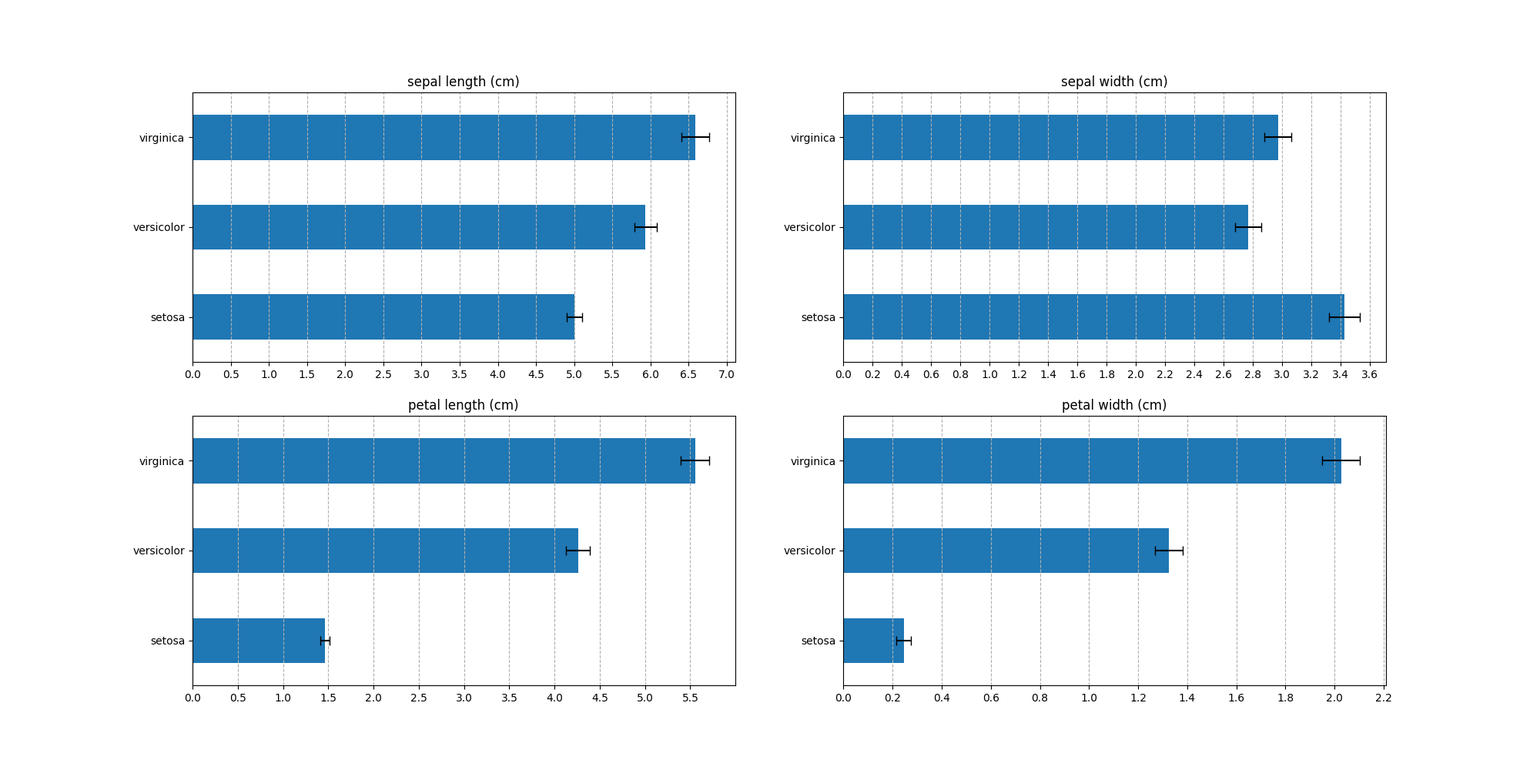
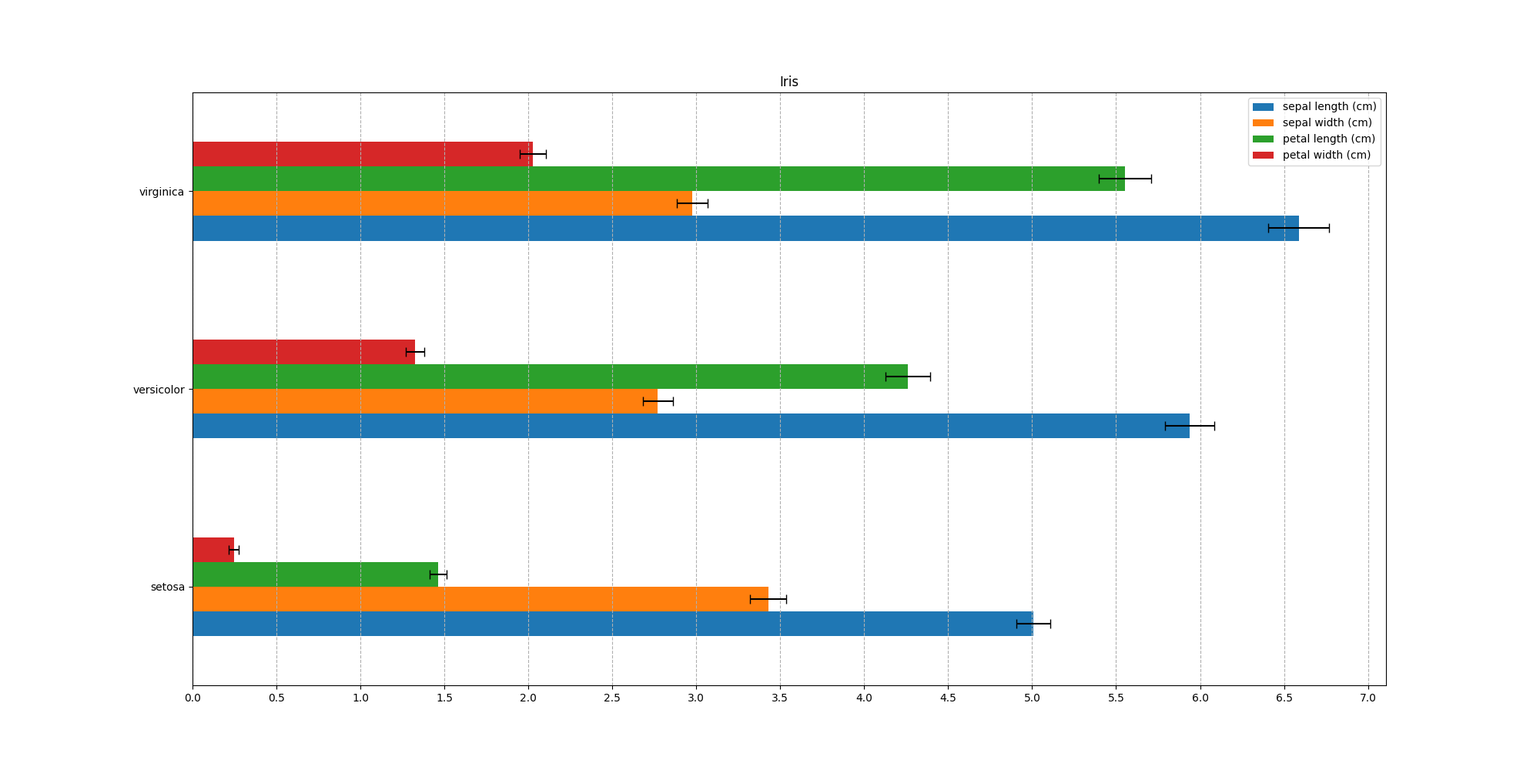
Multiple targets in GroupedScalarsBarchart

diff --git a/docs/searchindex.js b/docs/searchindex.js
@@ -1,1 +1,1 @@
-Search.setIndex({docnames:["data","groupedscalars","groupedseries","index","scalars","series","ungroupedscalars","ungroupedseries","utils"],envversion:{"sphinx.domains.c":2,"sphinx.domains.changeset":1,"sphinx.domains.citation":1,"sphinx.domains.cpp":3,"sphinx.domains.index":1,"sphinx.domains.javascript":2,"sphinx.domains.math":2,"sphinx.domains.python":2,"sphinx.domains.rst":2,"sphinx.domains.std":1,sphinx:56},filenames:["data.rst","groupedscalars.rst","groupedseries.rst","index.rst","scalars.rst","series.rst","ungroupedscalars.rst","ungroupedseries.rst","utils.rst"],objects:{"plotszoo.data":{DataCollection:[0,0,1,""],OptunaData:[0,0,1,""],WandbData:[0,0,1,""]},"plotszoo.data.DataCollection":{align_series:[0,1,1,""],are_series_aligned:[0,1,1,""],astype:[0,1,1,""],create_categorical:[0,1,1,""],create_scalar_from_series:[0,1,1,""],dropna:[0,1,1,""],dropna_series:[0,1,1,""],fillna:[0,1,1,""],fillna_series:[0,1,1,""],is_both:[0,1,1,""],is_empty:[0,1,1,""],is_scalars:[0,1,1,""],is_series:[0,1,1,""],rolling_series:[0,1,1,""],set_scalars:[0,1,1,""],set_series:[0,1,1,""]},"plotszoo.data.OptunaData":{pull_scalars:[0,1,1,""]},"plotszoo.data.WandbData":{pull_scalars:[0,1,1,""],pull_series:[0,1,1,""]},"plotszoo.scalars":{ScalarsParallelCoordinates:[6,0,1,""],ScalarsScatterCumulative:[6,0,1,""]},"plotszoo.scalars.ScalarsParallelCoordinates":{plot:[6,1,1,""]},"plotszoo.scalars.ScalarsScatterCumulative":{plot:[6,1,1,""]},"plotszoo.scalars.grouped":{GroupedScalarsBarchart:[1,0,1,""]},"plotszoo.scalars.grouped.GroupedScalarsBarchart":{plot:[1,1,1,""]},"plotszoo.series":{SeriesParade:[7,0,1,""]},"plotszoo.series.SeriesParade":{plot:[7,1,1,""]},"plotszoo.series.grouped":{GroupedSeriesParade:[2,0,1,""]},"plotszoo.series.grouped.GroupedSeriesParade":{plot:[2,1,1,""]},"plotszoo.utils":{savefig:[8,3,1,""]},plotszoo:{utils:[8,2,0,"-"]}},objnames:{"0":["py","class","Python class"],"1":["py","method","Python method"],"2":["py","module","Python module"],"3":["py","function","Python function"]},objtypes:{"0":"py:class","1":"py:method","2":"py:module","3":"py:function"},terms:{"100":[2,7],"999":6,"class":[0,1,2,4,5,6,7],"default":[0,1,2,6,7,8],"float":0,"function":[0,1,3,6,7],"import":[1,2,6,7],"int":1,"new":0,"return":[0,1],"true":[0,1,6,8],The:[0,1,2,6,7,8],Use:[0,6],Useful:2,Will:0,__file__:[1,2,6,7],about:0,accord:0,actual:6,adjust_whitespac:6,adjust_withspac:6,after:[0,2],against:6,agg_fn:0,algin:0,align:[0,2],align_seri:0,all:[0,3,7],alpha:2,also:0,amax:6,api:0,append:[2,7],appli:0,are_series_align:0,area:2,arg:[0,1,2,6,7,8],argument:0,astyp:0,attribut:0,axes:[1,2,6,7],axi:1,barchart:1,base:0,befor:2,blue:6,both:[0,2],cach:0,cache_dir:0,call:[0,2,6,8],can:[3,4,5,6],cast:0,categor:[0,6],certain:2,chang:0,chart:6,check:0,choos:0,cmap:[2,6,7],cmap_fn:6,cointain:0,cointan:0,collect:0,color:[6,7],color_fn:7,colorbar:6,colormap:[2,6,7],colum:0,column:[0,1,2,6,7],common:0,comput:7,confid:[1,2],config:6,configur:6,contain:0,content:[3,4,5],convert:[0,1],coordin:6,correspond:0,cos:[0,2,7],creat:[0,6,8],create_categor:0,create_dir_tre:8,create_scalar_from_seri:0,cumul:6,cumulative_fn:6,data:[1,2,3,6,7],datacollect:[0,1,2,6,7],datafram:[0,1,2,6,7],dataset:[1,6],dict:[0,6],dictionari:6,directori:[0,8],dirnam:[1,2,6,7],disabl:0,discard:0,divid:[4,5],doe:8,drop:0,dropna:0,dropna_seri:0,each:[0,1,2,6],effect:6,element:6,empti:0,ent_coef:6,entiti:0,exampl:[0,1,2,6,7,8],exist:8,fals:[0,1,2,6],featur:1,feature_nam:[1,6],field:6,fig:[1,2,6,7,8],figur:8,filenam:8,fill:0,fillna:0,fillna_seri:0,filter:0,find:[3,4,5],finish:0,first:8,fixed_color:7,flatten:1,folder:8,forc:0,force_upd:0,from:[0,1,6,7],full:0,gamma:6,get:3,goal:2,goal_typ:2,grid:1,grope:[4,5],group:[3,4,5,6],groupedscalarsbarchart:1,groupedseriesparad:2,have:[0,6],here:[0,1,2,3,4,5,6,7,8],histori:0,imag:[1,2,6,7],index:[0,1,2,3,6,7],indic:[0,1,2],inform:3,input:0,instead:6,integ:6,interv:[1,2],iri:[1,6],is_both:0,is_empti:0,is_scalar:0,is_seri:0,join:[1,2,6,7],just:[4,5],kei:[0,6],keyword:0,kwarg:[0,8],label:6,lambda:[0,1,7],legend:2,len:[2,6,7],line:1,linear:6,linspac:[2,6,7],list:[0,1,2,6],load:3,load_iri:[1,6],loc:2,logarithm:6,longest:0,lower:2,make:6,matplotlib:[1,2,6,7,8],max:[2,6],max_clip_norm:6,maximum:6,mean:[0,1,2,6],mean_reward:0,method:0,min:[0,2],minimum:6,modul:3,mongodb:0,must:[0,6],name:0,nan:0,nbin:1,nearest:0,need:3,new_column:0,nice:8,noise_level:[2,7],noisy_co:[2,7],noisy_sin:[2,7],none:[0,1,2,6,7],norm:6,normalize_color:2,num_seri:[2,7],number:[1,6],numer:[0,6],numpi:[1,2,6,7],one:[0,7],ones:[4,5],optuna:0,optunadata:0,organ:0,page:3,panda:[0,1,2,6,7],parad:[2,7],parallel:6,parallel_plot:6,path:[1,2,6,7],pdf:6,plot:[3,8],plotszoo:[0,1,2,4,5,6,7,8],plt:[1,2,6,7,8],png:[1,2,6,7,8],point:6,ppf:6,prettier:6,probabl:0,process:2,project:0,provid:0,pull:0,pull_scalar:0,pull_seri:0,pyplot:[1,2,6,7],python:0,queri:0,rand:[2,7],random:[2,7],rang:[2,7],reach:2,realpath:[1,2,6,7],reindex:0,rel:6,requir:[2,6],reset:0,respect:6,result:0,retriv:0,reward:[0,6],right:2,rightmost:6,roll:0,rolling_seri:0,row:0,run:[0,6],same:[0,6],sampl:[2,7],save:8,savefig:[1,2,6,7,8],savefig_kwarg:8,scalar:[0,2,3,7],scalar_nam:0,scalarsparallelcoordin:6,scalarsscattercumul:6,scale:6,scan_histori:0,scatter:6,scatter_cumul:6,scatterplot:6,scipi:6,search:3,seed:[2,7],sequenc:6,sequenti:6,seri:[0,3],series_parad:[2,7],seriesparad:7,servic:0,set:[0,6],set_scalar:[0,1,2,6,7],set_seri:[0,2,7],set_size_inch:[1,6],share:0,sharei:6,shortest:0,show:[1,6],side:6,sin:[0,2,7],sklearn:[1,6],sobsitut:0,some:[1,2,4,5,6,7,8],sort:6,sqlite:0,start:3,start_tim:0,stat:6,state:0,stochast:2,stop:2,storag:0,store:0,strategi:0,studi:0,study_nam:0,subplot:[1,2,6,7],subplots_adjust:6,sum:6,summari:6,tab10:[2,6,7],tan:0,target:[1,2,6],target_entropi:6,target_nam:1,team:0,text:1,textual:0,thei:8,them:[4,5],thi:2,tick:[1,6],time:0,timestamp:0,titl:1,train_step:6,tree:8,two:0,type:[0,2,6,7],unalign:0,ungroup:[3,4,5],updat:0,use:[0,2,6,7],used:6,usernam:0,using:[0,2,6],util:3,valu:[0,2,6,7],verbos:0,vertic:1,vf_coef:6,wandb:0,wandbdata:0,welcom:3,well:1,when:2,where:0,which:0,window:0,without:[4,5],work:2,wspace:6,x_seq:6,xtick:6,xticks_fn:6,you:[3,4,5,6],yticks_fn:1,zip:1},titles:["Data loading","Plotting Grouped Scalars","Plotting Grouped Series","plotszoo\u2019s documentation","Plotting Scalars","Plotting Series","Plotting Ungrouped Scalars","Plotting Ungrouped Series","Utility Functions"],titleterms:{"function":8,data:0,document:3,group:[1,2],indic:3,load:0,plot:[1,2,4,5,6,7],plotszoo:3,scalar:[1,4,6],seri:[2,5,7],tabl:3,ungroup:[6,7],util:8}})
+Search.setIndex({docnames:["data","groupedscalars","groupedseries","index","scalars","series","ungroupedscalars","ungroupedseries","utils"],envversion:{"sphinx.domains.c":2,"sphinx.domains.changeset":1,"sphinx.domains.citation":1,"sphinx.domains.cpp":3,"sphinx.domains.index":1,"sphinx.domains.javascript":2,"sphinx.domains.math":2,"sphinx.domains.python":2,"sphinx.domains.rst":2,"sphinx.domains.std":1,sphinx:56},filenames:["data.rst","groupedscalars.rst","groupedseries.rst","index.rst","scalars.rst","series.rst","ungroupedscalars.rst","ungroupedseries.rst","utils.rst"],objects:{"plotszoo.data":{DataCollection:[0,0,1,""],OptunaData:[0,0,1,""],WandbData:[0,0,1,""]},"plotszoo.data.DataCollection":{align_series:[0,1,1,""],are_series_aligned:[0,1,1,""],astype:[0,1,1,""],create_categorical:[0,1,1,""],create_scalar_from_series:[0,1,1,""],dropna:[0,1,1,""],dropna_series:[0,1,1,""],fillna:[0,1,1,""],fillna_series:[0,1,1,""],is_both:[0,1,1,""],is_empty:[0,1,1,""],is_scalars:[0,1,1,""],is_series:[0,1,1,""],rolling_series:[0,1,1,""],set_scalars:[0,1,1,""],set_series:[0,1,1,""]},"plotszoo.data.OptunaData":{pull_scalars:[0,1,1,""]},"plotszoo.data.WandbData":{pull_scalars:[0,1,1,""],pull_series:[0,1,1,""]},"plotszoo.scalars":{ScalarsParallelCoordinates:[6,0,1,""],ScalarsScatterCumulative:[6,0,1,""]},"plotszoo.scalars.ScalarsParallelCoordinates":{plot:[6,1,1,""]},"plotszoo.scalars.ScalarsScatterCumulative":{plot:[6,1,1,""]},"plotszoo.scalars.grouped":{GroupedScalarsBarchart:[1,0,1,""]},"plotszoo.scalars.grouped.GroupedScalarsBarchart":{plot:[1,1,1,""]},"plotszoo.series":{SeriesParade:[7,0,1,""]},"plotszoo.series.SeriesParade":{plot:[7,1,1,""]},"plotszoo.series.grouped":{GroupedSeriesParade:[2,0,1,""]},"plotszoo.series.grouped.GroupedSeriesParade":{plot:[2,1,1,""]},"plotszoo.utils":{savefig:[8,3,1,""]},plotszoo:{utils:[8,2,0,"-"]}},objnames:{"0":["py","class","Python class"],"1":["py","method","Python method"],"2":["py","module","Python module"],"3":["py","function","Python function"]},objtypes:{"0":"py:class","1":"py:method","2":"py:module","3":"py:function"},terms:{"100":[2,7],"999":6,"class":[0,1,2,4,5,6,7],"default":[0,1,2,6,7,8],"float":0,"function":[0,1,3,6,7],"import":[1,2,6,7],"int":1,"new":0,"return":[0,1],"true":[0,1,6,8],One:1,The:[0,1,2,6,7,8],Use:[0,6],Useful:2,Will:0,__file__:[1,2,6,7],about:0,accord:0,actual:6,adjust_whitespac:6,adjust_withspac:6,after:[0,2],against:6,agg_fn:0,algin:0,align:[0,2],align_seri:0,all:[0,3,7],alpha:2,also:0,amax:6,api:0,append:[2,7],appli:0,are_series_align:0,area:2,arg:[0,1,2,6,7,8],argument:0,astyp:0,attribut:0,auto:1,axes:[1,2,6,7],axi:1,barchart:1,base:0,befor:2,blue:6,both:[0,2],cach:0,cache_dir:0,call:[0,2,6,8],can:[3,4,5,6],cast:0,categor:[0,6],certain:2,chang:0,chart:6,check:0,choos:0,cmap:[2,6,7],cmap_fn:6,cointain:0,cointan:0,collect:0,color:[6,7],color_fn:7,colorbar:6,colormap:[2,6,7],colum:0,column:[0,1,2,6,7],common:0,comput:7,confid:[1,2],config:6,configur:6,contain:0,content:[3,4,5],convert:[0,1],coordin:6,correspond:0,cos:[0,2,7],creat:[0,6,8],create_categor:0,create_dir_tre:8,create_scalar_from_seri:0,cumul:6,cumulative_fn:6,data:[1,2,3,6,7],datacollect:[0,1,2,6,7],datafram:[0,1,2,6,7],dataset:[1,6],dict:[0,6],dictionari:6,directori:[0,8],dirnam:[1,2,6,7],disabl:0,discard:0,divid:[4,5],doe:8,drop:0,dropna:0,dropna_seri:0,each:[0,1,2,6],effect:6,element:6,empti:0,ent_coef:6,entiti:0,exampl:[0,1,2,6,7,8],exist:8,fals:[0,1,2,6],featur:1,feature_nam:[1,6],field:6,fig:[1,2,6,7,8],figur:8,filenam:8,fill:0,fillna:0,fillna_seri:0,filter:0,find:[3,4,5],finish:0,first:8,fixed_color:7,flatten:1,folder:8,forc:0,force_upd:0,from:[0,1,6,7],full:0,gamma:6,get:3,goal:2,goal_typ:2,grid:1,grope:[4,5],group:[3,4,5,6],groupedscalarsbarchart:1,groupedscalarsbarchart_subplot:1,groupedseriesparad:2,have:[0,6],here:[0,1,2,3,4,5,6,7,8],histori:0,imag:[1,2,6,7],index:[0,1,2,3,6,7],indic:[0,1,2],inform:3,input:0,instead:6,integ:6,interv:[1,2],iri:[1,6],is_both:0,is_empti:0,is_scalar:0,is_seri:0,join:[1,2,6,7],just:[4,5],kei:[0,6],keyword:0,kwarg:[0,8],label:6,lambda:[0,1,7],legend:[1,2],len:[2,6,7],line:1,linear:6,linspac:[2,6,7],list:[0,1,2,6],load:3,load_iri:[1,6],loc:2,logarithm:6,longest:0,lower:2,make:6,matplotlib:[1,2,6,7,8],max:[2,6],max_clip_norm:6,maximum:6,mean:[0,1,2,6],mean_reward:0,method:0,min:[0,2],minimum:6,modul:3,mongodb:0,must:[0,6],name:0,nan:0,nbin:1,nearest:0,need:3,new_column:0,nice:8,noise_level:[2,7],noisy_co:[2,7],noisy_sin:[2,7],none:[0,1,2,6,7],norm:6,normalize_color:2,num_seri:[2,7],number:[1,6],numer:[0,6],numpi:[1,2,6,7],one:[0,7],ones:[4,5],optuna:0,optunadata:0,organ:0,page:3,panda:[0,1,2,6,7],parad:[2,7],parallel:6,parallel_plot:6,path:[1,2,6,7],pdf:6,plot:[3,8],plotszoo:[0,1,2,4,5,6,7,8],plt:[1,2,6,7,8],png:[1,2,6,7,8],point:6,ppf:6,prettier:6,probabl:0,process:2,project:0,provid:0,pull:0,pull_scalar:0,pull_seri:0,pyplot:[1,2,6,7],python:0,queri:0,rand:[2,7],random:[2,7],rang:[2,7],reach:2,realpath:[1,2,6,7],reindex:0,rel:6,requir:[2,6],reset:0,respect:6,result:0,retriv:0,reward:[0,6],right:2,rightmost:6,roll:0,rolling_seri:0,row:0,run:[0,6],same:[0,6],sampl:[2,7],save:8,savefig:[1,2,6,7,8],savefig_kwarg:8,scalar:[0,2,3,7],scalar_nam:0,scalarsparallelcoordin:6,scalarsscattercumul:6,scale:6,scan_histori:0,scatter:6,scatter_cumul:6,scatterplot:6,scipi:6,search:3,seed:[2,7],sequenc:6,sequenti:6,seri:[0,3],series_parad:[2,7],seriesparad:7,servic:0,set:[0,6],set_scalar:[0,1,2,6,7],set_seri:[0,2,7],set_size_inch:[1,6],share:0,sharei:6,shortest:0,show:[1,6],side:6,sin:[0,2,7],sklearn:[1,6],sobsitut:0,some:[1,2,4,5,6,7,8],sort:6,sqlite:0,start:3,start_tim:0,stat:6,state:0,stochast:2,stop:2,storag:0,store:0,strategi:0,studi:0,study_nam:0,subplot:[1,2,6,7],subplots_adjust:6,sum:6,summari:6,tab10:[2,6,7],tan:0,target:[1,2,6],target_entropi:6,target_nam:1,team:0,text:1,textual:0,thei:8,them:[4,5],thi:2,tick:[1,6],time:0,timestamp:0,titl:1,train_step:6,tree:8,two:0,type:[0,2,6,7],unalign:0,ungroup:[3,4,5],updat:0,use:[0,2,6,7],used:6,usernam:0,using:[0,2,6],util:3,valu:[0,2,6,7],verbos:0,vertic:1,vf_coef:6,wandb:0,wandbdata:0,welcom:3,well:1,when:2,where:0,which:0,window:0,without:[4,5],work:2,wspace:6,x_seq:6,xtick:6,xticks_fn:6,you:[3,4,5,6],yticks_fn:1,zip:1},titles:["Data loading","Plotting Grouped Scalars","Plotting Grouped Series","plotszoo\u2019s documentation","Plotting Scalars","Plotting Series","Plotting Ungrouped Scalars","Plotting Ungrouped Series","Utility Functions"],titleterms:{"function":8,data:0,document:3,group:[1,2],indic:3,load:0,plot:[1,2,4,5,6,7],plotszoo:3,scalar:[1,4,6],seri:[2,5,7],tabl:3,ungroup:[6,7],util:8}})

diff --git a/docs/groupedscalars.html b/docs/groupedscalars.html
@@ -164,7 +164,7 @@
 <p>Here there are the classes that plot grouped scalars</p>
 <dl class="py class">
 <dt id="plotszoo.scalars.grouped.GroupedScalarsBarchart">
-<em class="property">class </em><code class="sig-prename descclassname">plotszoo.scalars.grouped.</code><code class="sig-name descname">GroupedScalarsBarchart</code><span class="sig-paren">(</span><em class="sig-param"><span class="n">data</span></em>, <em class="sig-param"><span class="n">groups</span></em>, <em class="sig-param"><span class="n">target</span></em><span class="sig-paren">)</span><a class="headerlink" href="#plotszoo.scalars.grouped.GroupedScalarsBarchart" title="Permalink to this definition">¶</a></dt>
+<em class="property">class </em><code class="sig-prename descclassname">plotszoo.scalars.grouped.</code><code class="sig-name descname">GroupedScalarsBarchart</code><span class="sig-paren">(</span><em class="sig-param"><span class="n">data</span></em>, <em class="sig-param"><span class="n">groups</span></em>, <em class="sig-param"><span class="n">targets</span></em><span class="sig-paren">)</span><a class="headerlink" href="#plotszoo.scalars.grouped.GroupedScalarsBarchart" title="Permalink to this definition">¶</a></dt>
 <dd><p>Plot a grouped mean barchart from the scalars as well as the mean confidence intervals</p>
 <dl class="simple">
 <dt>Args:</dt><dd><dl class="field-list simple">
@@ -174,8 +174,8 @@
 <dt class="field-even">groups</dt>
 <dd class="field-even"><p>A list of indices to group by</p>
 </dd>
-<dt class="field-odd">target</dt>
-<dd class="field-odd"><p>The index to plot</p>
+<dt class="field-odd">targets</dt>
+<dd class="field-odd"><p>One or a list of targets to plot</p>
 </dd>
 </dl>
 </dd>
@@ -202,13 +202,38 @@
     <span class="n">barchart</span><span class="o">.</span><span class="n">plot</span><span class="p">(</span><span class="n">ax</span><span class="p">,</span> <span class="n">title</span><span class="o">=</span><span class="n">feature</span><span class="p">,</span> <span class="n">nbins</span><span class="o">=</span><span class="mi">20</span><span class="p">,</span> <span class="n">grid</span><span class="o">=</span><span class="kc">True</span><span class="p">,</span> <span class="n">yticks_fn</span><span class="o">=</span><span class="n">yticks_fn</span><span class="p">)</span>
 
 <span class="n">fig</span><span class="o">.</span><span class="n">set_size_inches</span><span class="p">(</span><span class="mi">20</span><span class="p">,</span> <span class="mi">10</span><span class="p">)</span>
+<span class="n">fig</span><span class="o">.</span><span class="n">savefig</span><span class="p">(</span><span class="n">os</span><span class="o">.</span><span class="n">path</span><span class="o">.</span><span class="n">join</span><span class="p">(</span><span class="n">os</span><span class="o">.</span><span class="n">path</span><span class="o">.</span><span class="n">dirname</span><span class="p">(</span><span class="n">os</span><span class="o">.</span><span class="n">path</span><span class="o">.</span><span class="n">realpath</span><span class="p">(</span><span class="vm">__file__</span><span class="p">)),</span> <span class="s2">&quot;images/GroupedScalarsBarchart_subplots.png&quot;</span><span class="p">))</span>
+</pre></div>
+</div>
+<a class="reference internal image-reference" href="_images/GroupedScalarsBarchart_subplots.png"><img alt="_images/GroupedScalarsBarchart_subplots.png" src="_images/GroupedScalarsBarchart_subplots.png" style="width: 600px;" /></a>
+<div class="highlight-default notranslate"><div class="highlight"><pre><span></span><span class="kn">import</span> <span class="nn">numpy</span> <span class="k">as</span> <span class="nn">np</span>
+<span class="kn">import</span> <span class="nn">pandas</span> <span class="k">as</span> <span class="nn">pd</span>
+<span class="kn">import</span> <span class="nn">os</span>
+<span class="kn">import</span> <span class="nn">matplotlib.pyplot</span> <span class="k">as</span> <span class="nn">plt</span>
+<span class="kn">from</span> <span class="nn">sklearn.datasets</span> <span class="kn">import</span> <span class="n">load_iris</span>
+<span class="kn">import</span> <span class="nn">plotszoo</span>
+
+<span class="n">iris</span> <span class="o">=</span> <span class="n">load_iris</span><span class="p">()</span>
+<span class="n">scalars</span> <span class="o">=</span> <span class="n">pd</span><span class="o">.</span><span class="n">DataFrame</span><span class="p">(</span><span class="n">data</span><span class="o">=</span> <span class="n">np</span><span class="o">.</span><span class="n">c_</span><span class="p">[</span><span class="n">iris</span><span class="p">[</span><span class="s2">&quot;data&quot;</span><span class="p">],</span> <span class="n">iris</span><span class="p">[</span><span class="s2">&quot;target&quot;</span><span class="p">]],</span> <span class="n">columns</span><span class="o">=</span><span class="n">iris</span><span class="p">[</span><span class="s2">&quot;feature_names&quot;</span><span class="p">]</span> <span class="o">+</span> <span class="p">[</span><span class="s2">&quot;target&quot;</span><span class="p">])</span>
+
+<span class="n">data</span> <span class="o">=</span> <span class="n">plotszoo</span><span class="o">.</span><span class="n">data</span><span class="o">.</span><span class="n">DataCollection</span><span class="p">()</span>
+<span class="n">data</span><span class="o">.</span><span class="n">set_scalars</span><span class="p">(</span><span class="n">scalars</span><span class="p">)</span>
+
+<span class="n">fig</span><span class="p">,</span> <span class="n">ax</span> <span class="o">=</span> <span class="n">plt</span><span class="o">.</span><span class="n">subplots</span><span class="p">()</span>
+
+<span class="n">yticks_fn</span> <span class="o">=</span> <span class="k">lambda</span> <span class="n">x</span><span class="p">:</span> <span class="n">iris</span><span class="p">[</span><span class="s2">&quot;target_names&quot;</span><span class="p">][</span><span class="nb">int</span><span class="p">(</span><span class="n">x</span><span class="p">)]</span>
+
+<span class="n">barchart</span> <span class="o">=</span> <span class="n">plotszoo</span><span class="o">.</span><span class="n">scalars</span><span class="o">.</span><span class="n">grouped</span><span class="o">.</span><span class="n">GroupedScalarsBarchart</span><span class="p">(</span><span class="n">data</span><span class="p">,</span> <span class="p">[</span><span class="s2">&quot;target&quot;</span><span class="p">],</span> <span class="n">iris</span><span class="p">[</span><span class="s2">&quot;feature_names&quot;</span><span class="p">])</span>
+<span class="n">barchart</span><span class="o">.</span><span class="n">plot</span><span class="p">(</span><span class="n">ax</span><span class="p">,</span> <span class="n">title</span><span class="o">=</span><span class="s2">&quot;Iris&quot;</span><span class="p">,</span> <span class="n">nbins</span><span class="o">=</span><span class="mi">20</span><span class="p">,</span> <span class="n">grid</span><span class="o">=</span><span class="kc">True</span><span class="p">,</span> <span class="n">yticks_fn</span><span class="o">=</span><span class="n">yticks_fn</span><span class="p">)</span>
+
+<span class="n">fig</span><span class="o">.</span><span class="n">set_size_inches</span><span class="p">(</span><span class="mi">20</span><span class="p">,</span> <span class="mi">10</span><span class="p">)</span>
 <span class="n">fig</span><span class="o">.</span><span class="n">savefig</span><span class="p">(</span><span class="n">os</span><span class="o">.</span><span class="n">path</span><span class="o">.</span><span class="n">join</span><span class="p">(</span><span class="n">os</span><span class="o">.</span><span class="n">path</span><span class="o">.</span><span class="n">dirname</span><span class="p">(</span><span class="n">os</span><span class="o">.</span><span class="n">path</span><span class="o">.</span><span class="n">realpath</span><span class="p">(</span><span class="vm">__file__</span><span class="p">)),</span> <span class="s2">&quot;images/GroupedScalarsBarchart.png&quot;</span><span class="p">))</span>
 </pre></div>
 </div>
 <a class="reference internal image-reference" href="_images/GroupedScalarsBarchart.png"><img alt="_images/GroupedScalarsBarchart.png" src="_images/GroupedScalarsBarchart.png" style="width: 600px;" /></a>
 <dl class="py method">
 <dt id="plotszoo.scalars.grouped.GroupedScalarsBarchart.plot">
-<code class="sig-name descname">plot</code><span class="sig-paren">(</span><em class="sig-param"><span class="n">ax</span></em>, <em class="sig-param"><span class="n">title</span><span class="o">=</span><span class="default_value">None</span></em>, <em class="sig-param"><span class="n">nbins</span><span class="o">=</span><span class="default_value">10</span></em>, <em class="sig-param"><span class="n">grid</span><span class="o">=</span><span class="default_value">False</span></em>, <em class="sig-param"><span class="n">yticks_fn</span><span class="o">=</span><span class="default_value">None</span></em><span class="sig-paren">)</span><a class="headerlink" href="#plotszoo.scalars.grouped.GroupedScalarsBarchart.plot" title="Permalink to this definition">¶</a></dt>
+<code class="sig-name descname">plot</code><span class="sig-paren">(</span><em class="sig-param"><span class="n">ax</span></em>, <em class="sig-param"><span class="n">title</span><span class="o">=</span><span class="default_value">None</span></em>, <em class="sig-param"><span class="n">nbins</span><span class="o">=</span><span class="default_value">10</span></em>, <em class="sig-param"><span class="n">grid</span><span class="o">=</span><span class="default_value">False</span></em>, <em class="sig-param"><span class="n">yticks_fn</span><span class="o">=</span><span class="default_value">None</span></em>, <em class="sig-param"><span class="n">legend</span><span class="o">=</span><span class="default_value">None</span></em><span class="sig-paren">)</span><a class="headerlink" href="#plotszoo.scalars.grouped.GroupedScalarsBarchart.plot" title="Permalink to this definition">¶</a></dt>
 <dd><p>Plot the grouped mean barchart</p>
 <dl class="simple">
 <dt>Args:</dt><dd><dl class="field-list simple">
@@ -226,6 +251,9 @@
 </dd>
 <dt class="field-odd">yticks_fn</dt>
 <dd class="field-odd"><p>A function to convert each index to text (Default: <code class="docutils literal notranslate"><span class="pre">None</span></code>)</p>
+</dd>
+<dt class="field-even">legend</dt>
+<dd class="field-even"><p>Plot the legend (Default: auto)</p>
 </dd>
 </dl>
 </dd>

diff --git a/plotszoo/scalars/grouped/barchart.py b/plotszoo/scalars/grouped/barchart.py
@@ -1,4 +1,5 @@
 import numpy as np
+import pandas as pd
 
 from plotszoo.scalars import ScalarsPlot
 from plotszoo.utils import confidence_interval
@@ -10,23 +11,28 @@ class GroupedScalarsBarchart(ScalarsPlot):
     Args:
         :data: :class:`plotszoo.data.DataCollection` with some scalars
         :groups: A list of indices to group by
-        :target: The index to plot
+        :targets: One or a list of targets to plot
     
     Example:
+
+    .. literalinclude:: ../../examples/GroupedScalarsBarchart_subplots.py
+
+    .. image:: ../../examples/images/GroupedScalarsBarchart_subplots.png
+        :width: 600
 
     .. literalinclude:: ../../examples/GroupedScalarsBarchart.py
 
     .. image:: ../../examples/images/GroupedScalarsBarchart.png
         :width: 600
     """
-    def __init__(self, data, groups, target):
+    def __init__(self, data, groups, targets):
         super(GroupedScalarsBarchart, self).__init__(data)
         self.groups = groups
-        self.target = target
+        self.targets = targets if isinstance(targets, list) else [targets]
 
-        self.grouped_scalars = data.scalars.groupby(groups).agg({target: [np.mean, confidence_interval]}) 
+        self.grouped_scalars = data.scalars.groupby(groups).agg({target: [np.mean, confidence_interval] for target in self.targets}) 
 
-    def plot(self, ax, title=None, nbins=10, grid=False, yticks_fn=None):
+    def plot(self, ax, title=None, nbins=10, grid=False, yticks_fn=None, legend=None):
         r"""
         Plot the grouped mean barchart
 
@@ -36,16 +42,28 @@ class GroupedScalarsBarchart(ScalarsPlot):
             :nbins: Number of ticks in the x axis (Default: 10)
             :grid: Show vertical grid lines (Default: ``False``)
             :yticks_fn: A function to convert each index to text (Default: ``None``)
+            :legend: Plot the legend (Default: auto)
         
         Returns:
             Grouped scalars :mod:`pandas` DataFrame
         
         """
-        self.grouped_scalars[self.target]["mean"].plot.barh(ax=ax, xerr=self.grouped_scalars[self.target]["confidence_interval"], capsize=4, xlabel="")
+
+        if legend is None: legend = len(self.targets) > 1
+
+        means = self.grouped_scalars.loc[:, (slice(None), "mean")]
+        means.columns = means.columns.droplevel(1)
+        
+        errors = self.grouped_scalars.loc[:, (slice(None), "confidence_interval")]
+        errors.columns = errors.columns.droplevel(1)
+        
+        means.plot.barh(ax=ax, xerr=errors, capsize=4, xlabel="", legend=legend)
+
         if title is not None: ax.title.set_text(title)
         if yticks_fn is not None:
             xticks = [yticks_fn(index) for index, _ in self.grouped_scalars.iterrows()]
             ax.set_yticklabels(xticks)
+        
         ax.locator_params(nbins=nbins, axis="x")
         if grid: ax.grid(which="both", axis="x", linestyle="--")
 

diff --git a/examples/GroupedScalarsBarchart_subplots.py b/examples/GroupedScalarsBarchart_subplots.py
@@ -11,12 +11,12 @@ scalars = pd.DataFrame(data= np.c_[iris["data"], iris["target"]], columns=iris["
 data = plotszoo.data.DataCollection()
 data.set_scalars(scalars)
 
-fig, ax = plt.subplots()
+fig, axes = plt.subplots(2, 2)
 
 yticks_fn = lambda x: iris["target_names"][int(x)]
-
-barchart = plotszoo.scalars.grouped.GroupedScalarsBarchart(data, ["target"], iris["feature_names"])
-barchart.plot(ax, title="Iris", nbins=20, grid=True, yticks_fn=yticks_fn)
+for feature, ax in zip(iris["feature_names"], axes.flatten()):
+    barchart = plotszoo.scalars.grouped.GroupedScalarsBarchart(data, ["target"], feature)
+    barchart.plot(ax, title=feature, nbins=20, grid=True, yticks_fn=yticks_fn)
 
 fig.set_size_inches(20, 10)
-fig.savefig(os.path.join(os.path.dirname(os.path.realpath(__file__)), "images/GroupedScalarsBarchart.png"))
+fig.savefig(os.path.join(os.path.dirname(os.path.realpath(__file__)), "images/GroupedScalarsBarchart_subplots.png"))
